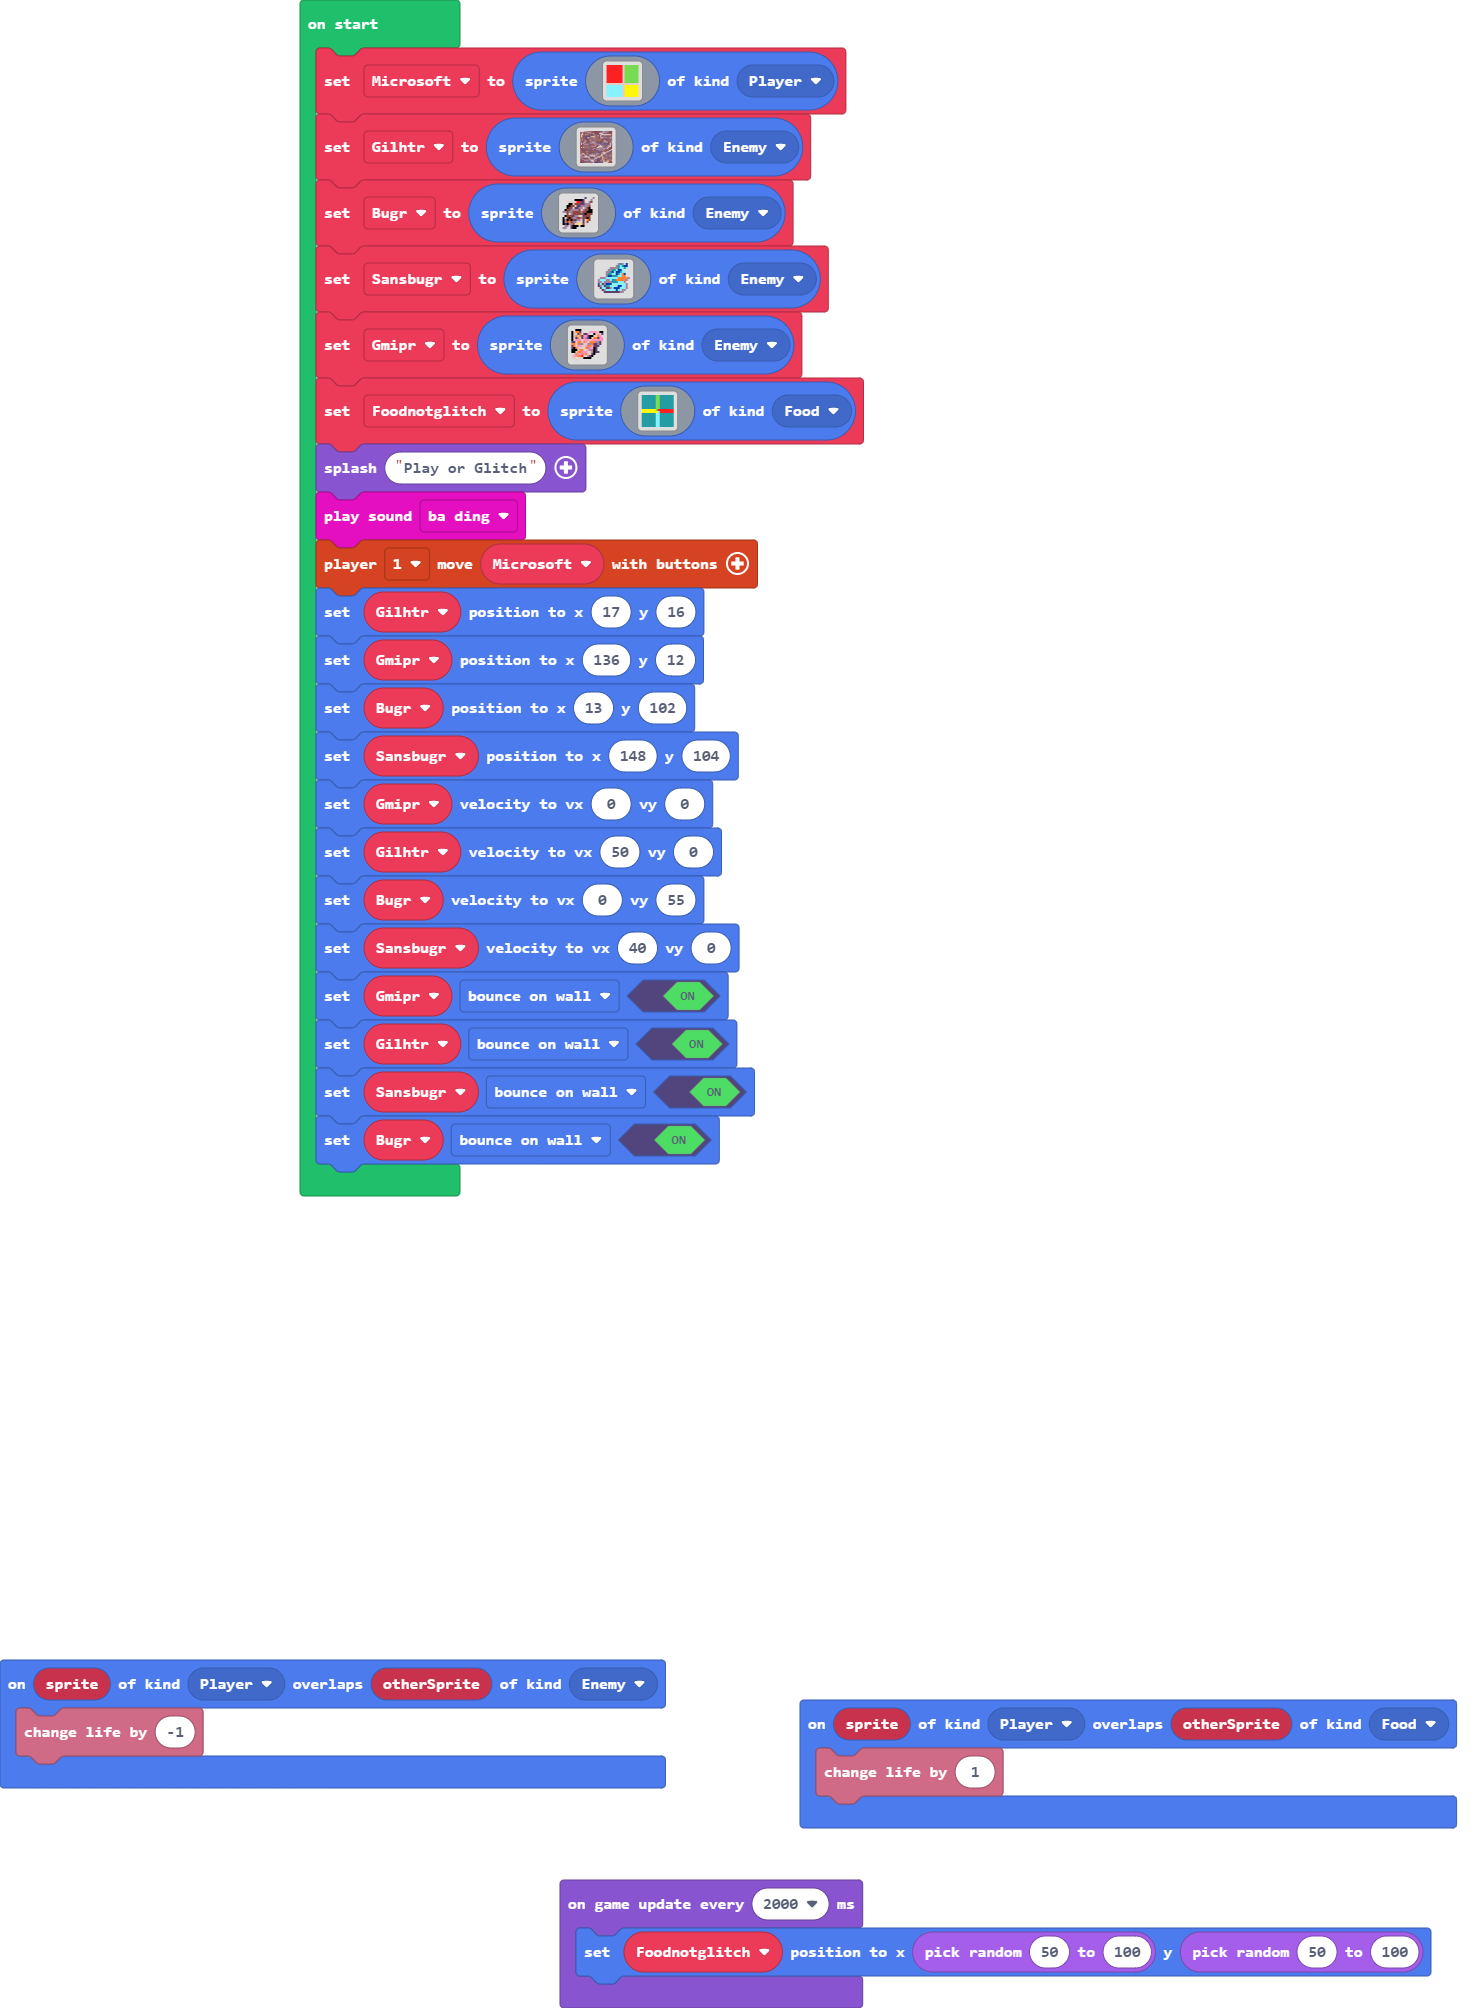
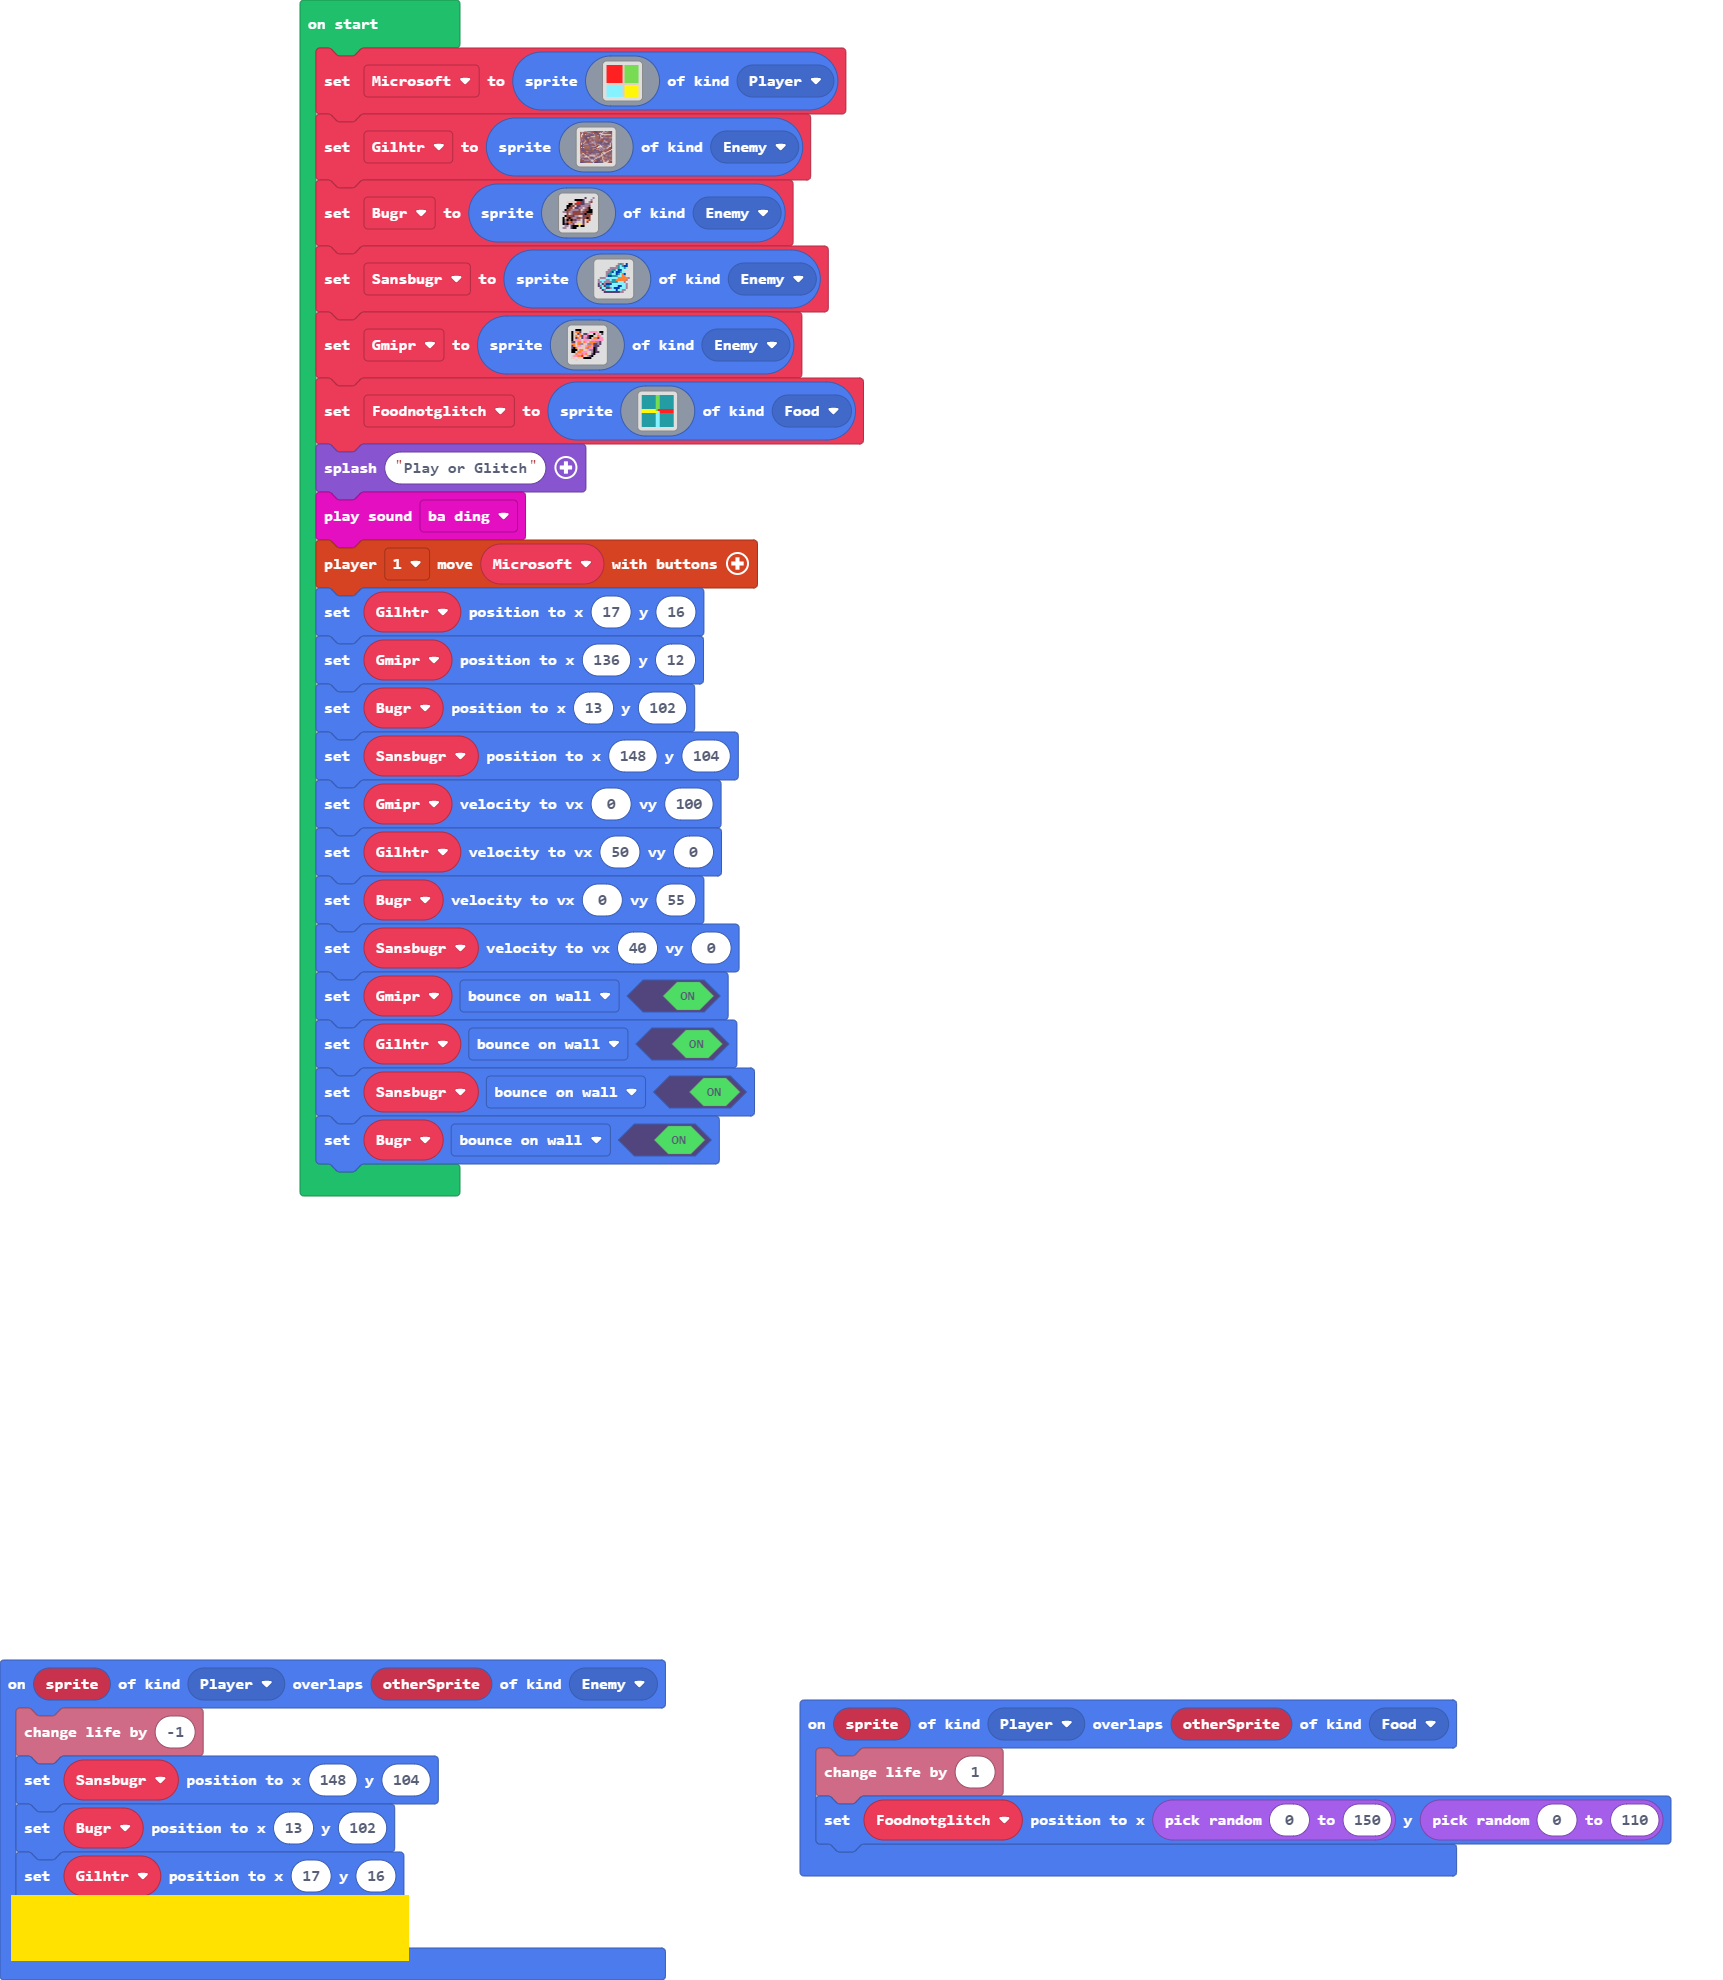
Update main.blocks, main.ts

Changed region(s): [[0.1551, 0.0, 0.5893, 0.6162], [0.0, 0.801, 0.9926, 1.0]]

diff --git a/main.ts b/main.ts
@@ -1,9 +1,19 @@
 sprites.onOverlap(SpriteKind.Player, SpriteKind.Food, function (sprite, otherSprite) {
     info.changeLifeBy(1)
+    Foodnotglitch.setPosition(randint(0, 150), randint(0, 110))
 })
 sprites.onOverlap(SpriteKind.Player, SpriteKind.Enemy, function (sprite, otherSprite) {
     info.changeLifeBy(-1)
+    Sansbugr.setPosition(148, 104)
+    Bugr.setPosition(13, 102)
+    Gilhtr.setPosition(17, 16)
+    Gmipr.setPosition(136, 12)
 })
+let Foodnotglitch: Sprite = null
+let Gmipr: Sprite = null
+let Sansbugr: Sprite = null
+let Bugr: Sprite = null
+let Gilhtr: Sprite = null
 let Microsoft = sprites.create(img`
     2 2 2 2 2 2 2 2 d 7 7 7 7 7 7 7 
     2 2 2 2 2 2 2 2 d 7 7 7 7 7 7 7 
@@ -22,7 +32,7 @@ let Microsoft = sprites.create(img`
     9 9 9 9 9 9 9 9 d 5 5 5 5 5 5 5 
     9 9 9 9 9 9 9 9 d 5 5 5 5 5 5 5 
     `, SpriteKind.Player)
-let Gilhtr = sprites.create(img`
+Gilhtr = sprites.create(img`
     ddddbbbeeeeeeceeeeccccdccbecee
     ebbeeeebbbeeeecceeebedebbeeece
     eedccceeeebcdceecedddbcceeeece
@@ -54,7 +64,7 @@ let Gilhtr = sprites.create(img`
     eeeeecccccbdbbeececeeedeeddeee
     ccccceeeeeecdcccccccccddddeeee
     `, SpriteKind.Enemy)
-let Bugr = sprites.create(img`
+Bugr = sprites.create(img`
     . . . . . . . . . . . c . . . b 
     . . . . . . f f f f c . . . b . 
     . . d d d d d 2 2 c c d . b e . 
@@ -72,7 +82,7 @@ let Bugr = sprites.create(img`
     . b b . c f f f d f f . . . . . 
     b b . . c f f . . . . . . . . . 
     `, SpriteKind.Enemy)
-let Sansbugr = sprites.create(img`
+Sansbugr = sprites.create(img`
     . . . . . . . . . . b 6 b . 8 . 
     . . . . . . . . . b 6 9 6 8 8 . 
     . . . . . . b b b b 6 9 9 6 9 . 
@@ -90,7 +100,7 @@ let Sansbugr = sprites.create(img`
     . . . c c c c c c c c b b . . . 
     . . . . . . . . . . . . . . . . 
     `, SpriteKind.Enemy)
-let Gmipr = sprites.create(img`
+Gmipr = sprites.create(img`
     . . f f f . . . . . . . . . . . 
     f d 4 4 c . . . . 3 3 3 3 d f f 
     f d d c 4 . c c 3 . . f d 3 d c 
@@ -108,7 +118,7 @@ let Gmipr = sprites.create(img`
     d d . d d d f f f f . . . . . . 
     . . d . . . . . . . . . . . . . 
     `, SpriteKind.Enemy)
-let Foodnotglitch = sprites.create(img`
+Foodnotglitch = sprites.create(img`
     6 6 6 6 6 6 6 7 7 6 6 6 6 6 6 6 
     6 6 6 6 6 6 6 7 7 6 6 6 6 6 6 6 
     6 6 6 6 6 6 6 7 7 6 6 6 6 6 6 6 
@@ -133,7 +143,7 @@ Gilhtr.setPosition(17, 16)
 Gmipr.setPosition(136, 12)
 Bugr.setPosition(13, 102)
 Sansbugr.setPosition(148, 104)
-Gmipr.setVelocity(0, 0)
+Gmipr.setVelocity(0, 100)
 Gilhtr.setVelocity(50, 0)
 Bugr.setVelocity(0, 55)
 Sansbugr.setVelocity(40, 0)
@@ -141,6 +151,3 @@ Gmipr.setFlag(SpriteFlag.BounceOnWall, true)
 Gilhtr.setFlag(SpriteFlag.BounceOnWall, true)
 Sansbugr.setFlag(SpriteFlag.BounceOnWall, true)
 Bugr.setFlag(SpriteFlag.BounceOnWall, true)
-game.onUpdateInterval(2000, function () {
-    Foodnotglitch.setPosition(randint(50, 100), randint(50, 100))
-})
